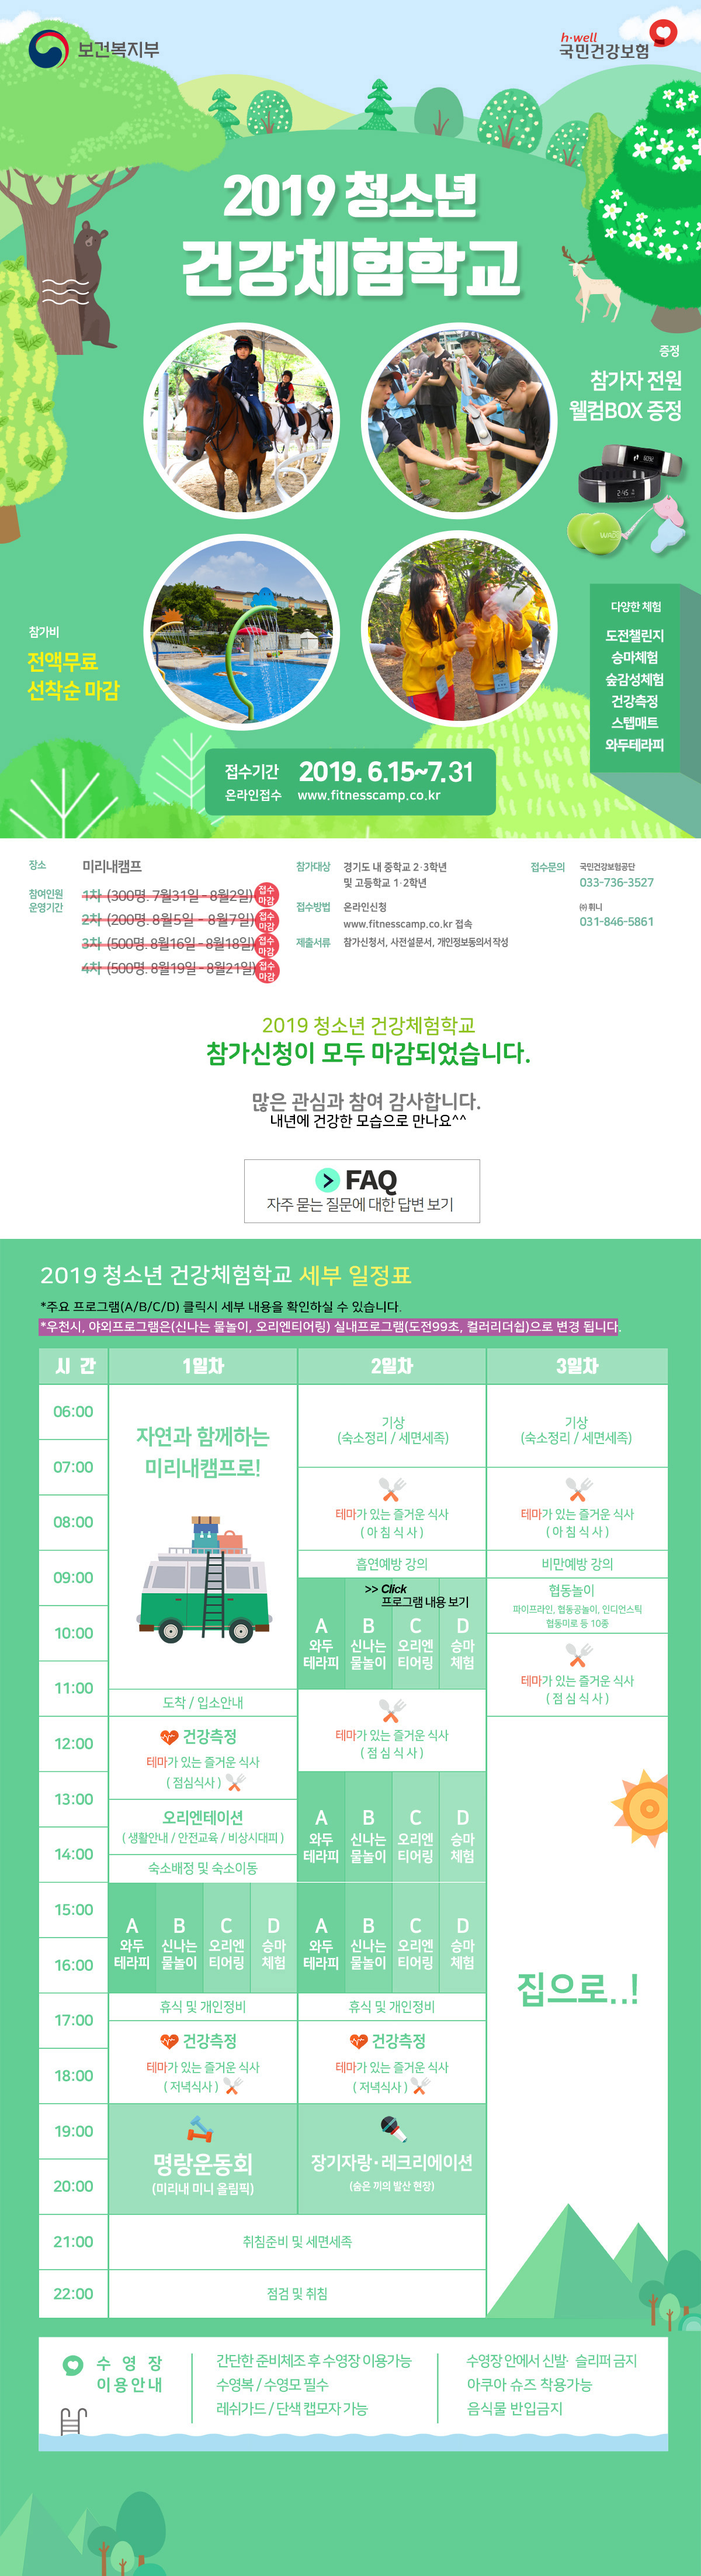
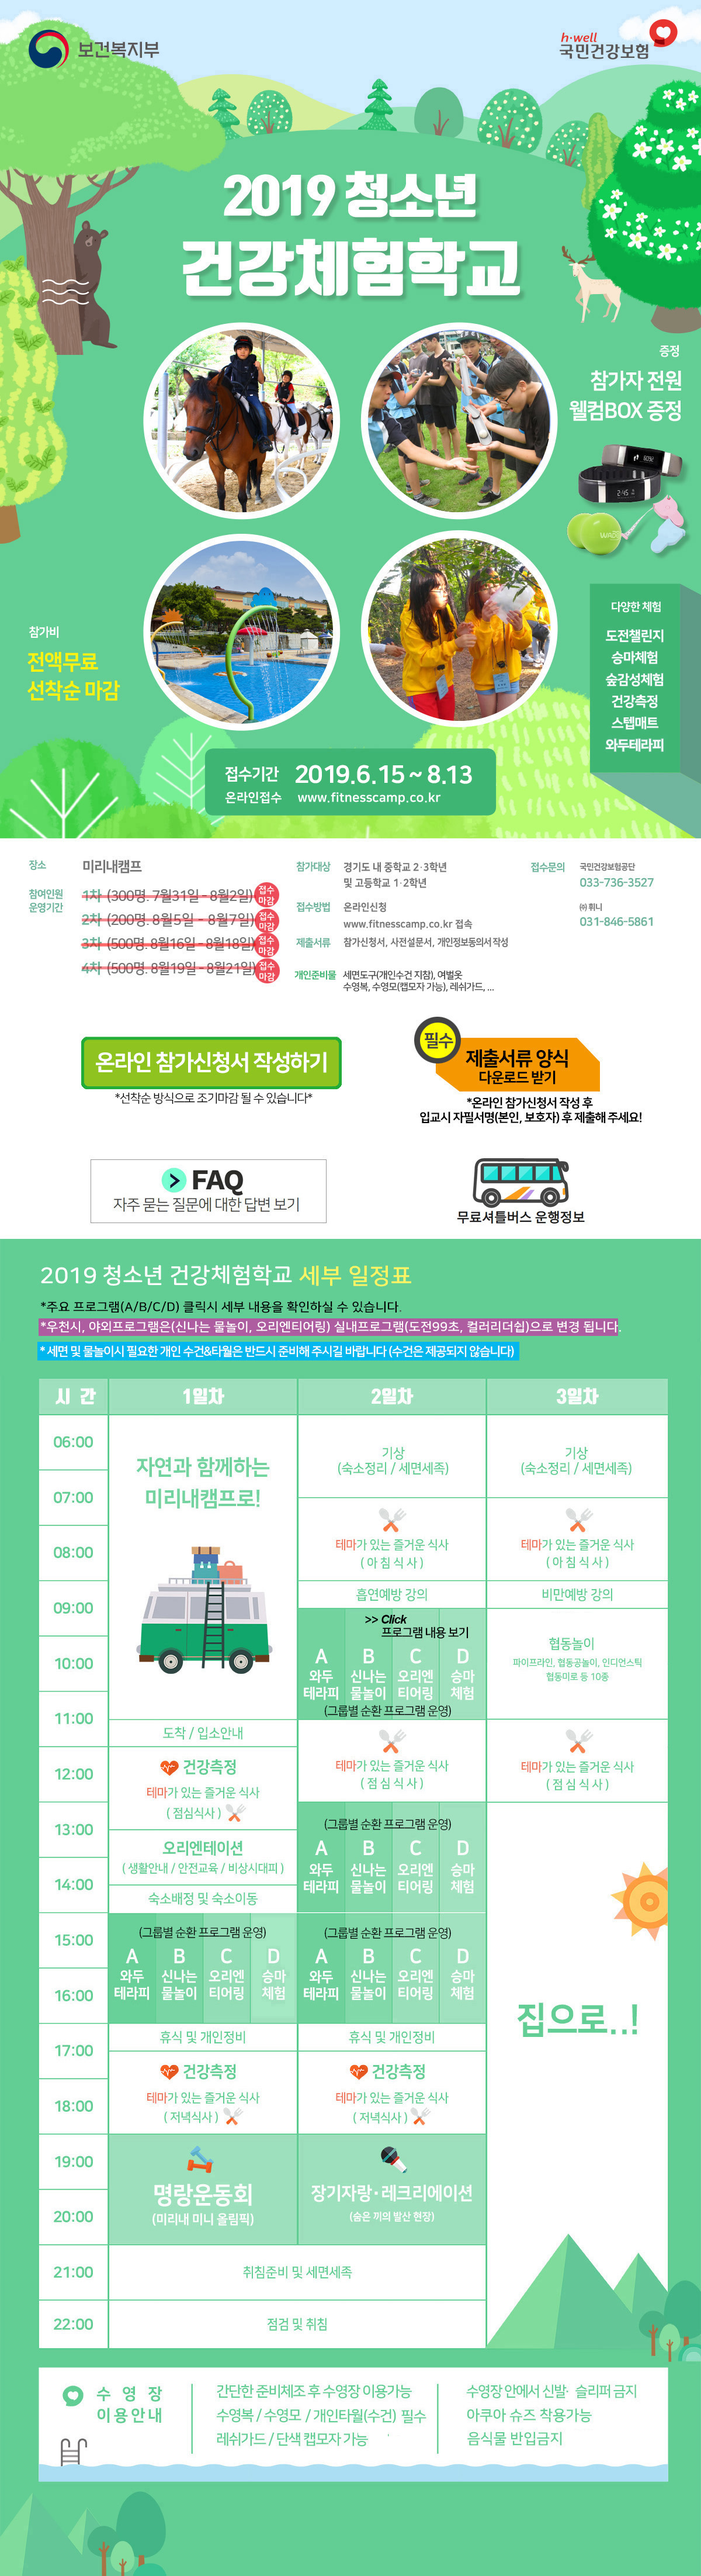
update registration status

diff --git a/index.html b/index.html
@@ -14,11 +14,10 @@ div{
 <body>
 
 <!-- Image Map Generated by http://www.image-map.net/ -->
-<center><img src="img/fitnesscamp_main_0010.jpg" usemap="#image-map"></center><br>
+<center><img src="img/fitnesscamp_main_0000.jpg" usemap="#image-map"></center><br>
 <center><img src="img/bottom_map.jpg" ></center>
 
 <map name="image-map">
-    <area target="apply" alt="온라인 참가신청서 작성하기" title="온라인 참가신청서 작성하기" href="https://bit.ly/fitnesscamp19" coords="147,1781,578,1853" shape="rect">
     <area target="document" alt="제출서류 양식 다운로드 받기" title="제출서류 양식 다운로드 받기" href="https://bit.ly/2WYjlTK" coords="791,1792,989,1857" shape="rect">
     <area target="faq" alt="FAQ" title="FAQ" href="https://bit.ly/2X5nuVY" coords="193,1997,515,2076" shape="rect">
     <area target="campprogram" alt="캠프 프로그램 소개" title="캠프 프로그램 소개" href="https://bit.ly/2X7Wnd6" coords="514,2165,708,2200" shape="rect">
